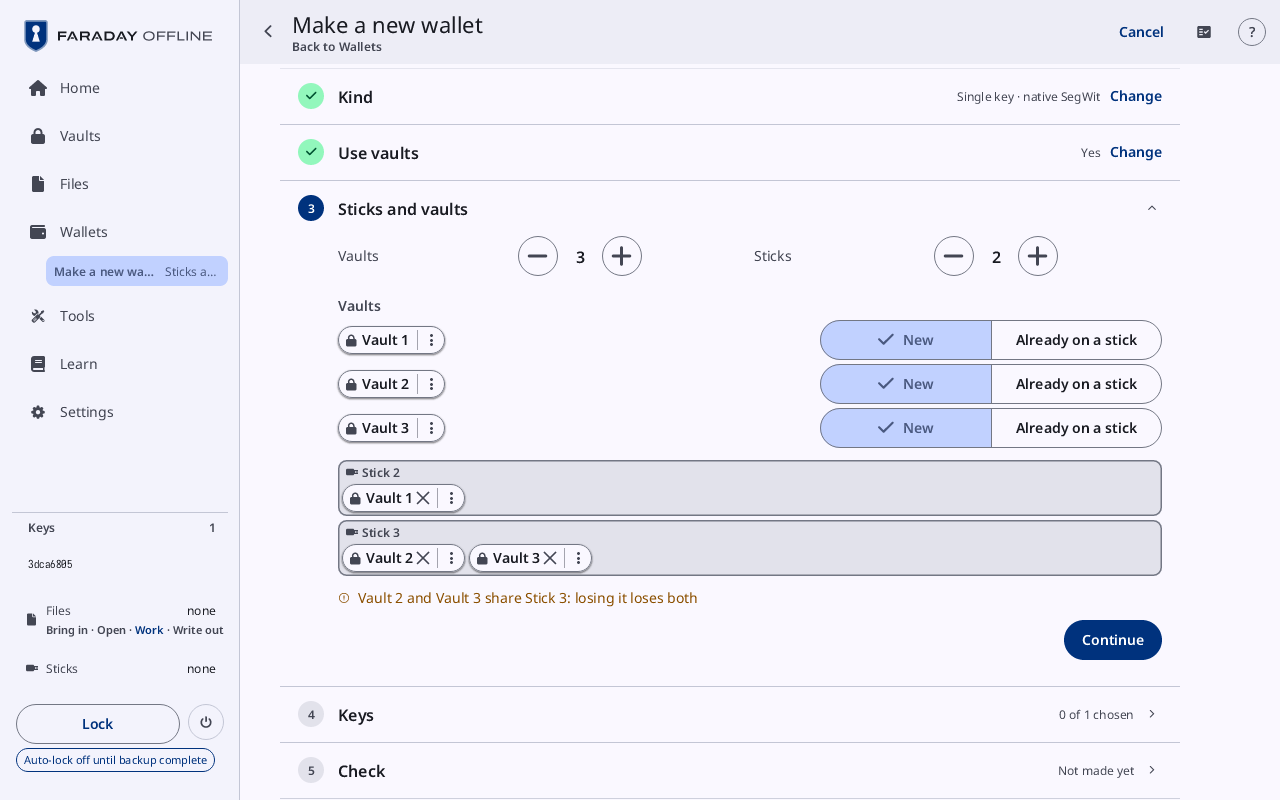
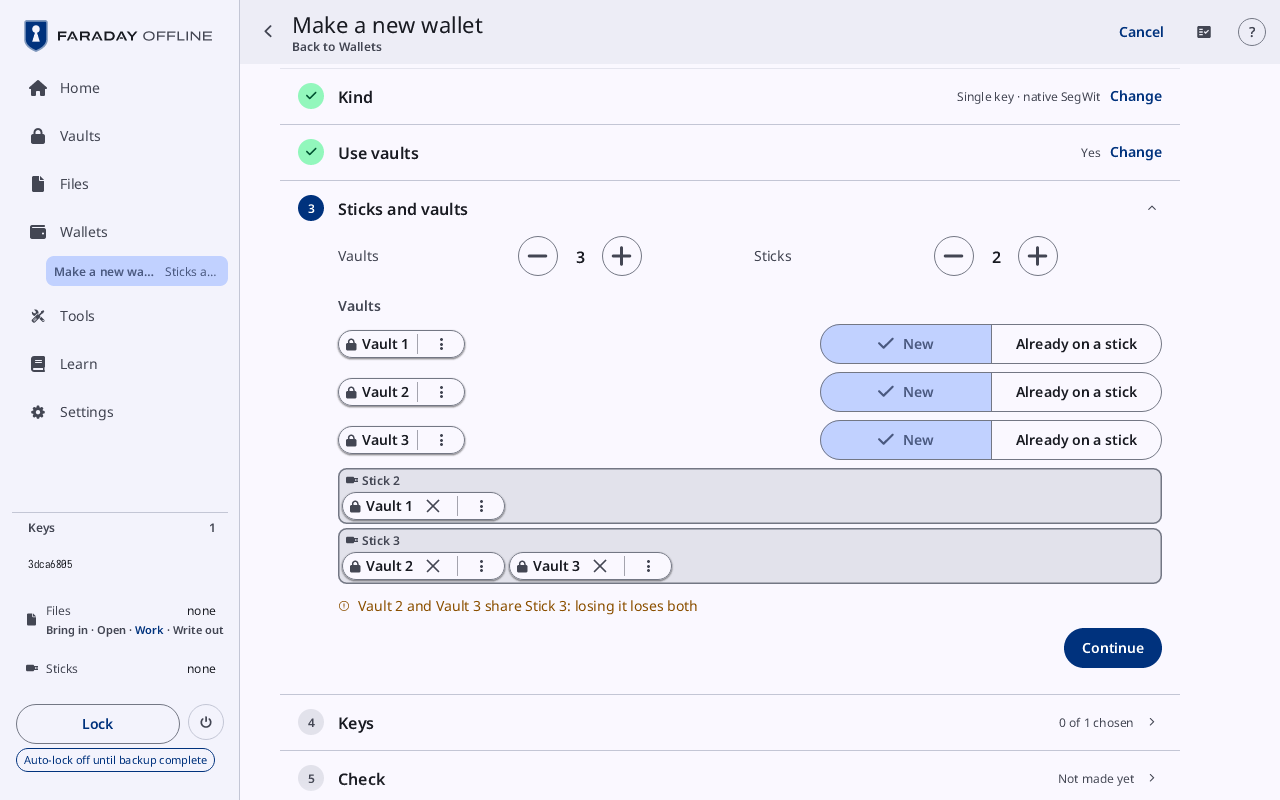
A vault chip's menu and its × take a 48 dp press, and the Sticks and vaults card's rows are a press target tall: the vault's head band on the backup board is 48 dp, with its ⋮ and × each 48 dp wide, and the card's chips and New / Already on a stick buttons each have a 48 dp line. The board's under-f
Material: Icon buttons (48 dp touch target around a 24 dp icon), Segmented buttons (40 dp drawn, 48 dp target)
Impact-skip: speed.late-flow-timed: press targets only, nothing worked out while drawing
Reviewed: crypto.costs-said
Reviewed: keys.secret-files
Reviewed: keys.child-vault-only
Reviewed: structure.areas-private
Reviewed: strings.plain
Reviewed: design.left-out
Reviewed: guide.pictures
Reviewed: repo.tests-user-facing
Reviewed: tree.image-metadata
Reviewed: crypto.at-source
Reviewed: crypto.kept-values

diff --git a/faraday/faraday-core/src/board/screen.rs b/faraday/faraday-core/src/board/screen.rs
@@ -159,14 +159,32 @@ fn marks_w(cv: &ChipView) -> f32 {
         + usize::from(cv.link)
         + usize::from(cv.warn)
         + usize::from(cv.off && matches!(cv.chip, Chip::Placed(..)) && !cv.fixed);
-    n as f32 * one + if cv.menu { menu_w() } else { 0.0 }
+    let off = cv.off && matches!(cv.chip, Chip::Placed(..)) && !cv.fixed;
+    n as f32 * one + if off { off_extra(t) } else { 0.0 } + if cv.menu { menu_w(t) } else { 0.0 }
+}
+
+/// The side in dp of a chip's ⋮ and × parts: a vault's are a press
+/// target of [`tokens::TOUCH`] square, as Material's icon buttons are
+/// (the icon keeps its size); any other chip's are the mark and its
+/// padding.
+fn side(t: Thing) -> f32 {
+    if matches!(t, Thing::Vault(_)) {
+        tokens::TOUCH
+    } else {
+        tokens::BOARD_MARK + 2.0 * tokens::BOARD_PAD
+    }
+}
+
+/// What a chip's × part takes beyond a mark and its small gap.
+fn off_extra(t: Thing) -> f32 {
+    side(t) - (tokens::BOARD_MARK + 2.0 * tokens::BOARD_PAD)
 }
 
 /// The width of a chip's ⋮ part at its right end, from its rule: the ⋮
 /// and its padding, a press target as the × is (`docs/BACKUP-FLOW.md`
 /// §17.20 item 1).
-fn menu_w() -> f32 {
-    tokens::BOARD_MARK + 2.0 * tokens::BOARD_PAD
+fn menu_w(t: Thing) -> f32 {
+    side(t)
 }
 
 /// A chip's ⋮ part at (x, y), `h` tall (`docs/BACKUP-FLOW.md` §17.20):
@@ -185,7 +203,7 @@ fn dots(
     color: crate::ui::Paint,
     hits: bool,
 ) {
-    let mw = menu_w();
+    let mw = menu_w(c.thing());
     let a = Action::Board(BoardPress::Menu(c));
     if hits {
         ui.tip_plain((x, y, mw, h), a, EN.tip_more);
@@ -418,9 +436,15 @@ fn chip(ui: &mut Ui, fr: &mut Frame, cv: &ChipView, x: f32, y: f32, fit: Fit, hi
     let cx = x + tokens::BOARD_PAD + if g.is_some() { step } else { 0.0 };
     // The marks at the right, from the edge in: the ⋮ after its rule, ×,
     // warning, link, lock; each mark's right edge.
-    let mw = if cv.menu { menu_w() } else { 0.0 };
+    let mw = if cv.menu { menu_w(t) } else { 0.0 };
     let off = cv.off && !cv.fixed && matches!(cv.chip, Chip::Placed(..));
     let mut right = x + w - mw - tokens::BOARD_PAD;
+    // A vault's × is a press target of its own side, its mark centred.
+    let ex = if off { off_extra(t) } else { 0.0 };
+    let off_r = right - ex / 2.0;
+    if off {
+        right -= step + ex;
+    }
     let mut at = |on: bool| {
         let mark_r = right;
         if on {
@@ -428,7 +452,7 @@ fn chip(ui: &mut Ui, fr: &mut Frame, cv: &ChipView, x: f32, y: f32, fit: Fit, hi
         }
         mark_r
     };
-    let (off_r, warn_r, link_r, seal_r) = (at(off), at(cv.warn), at(cv.link), at(sealed(cv)));
+    let (warn_r, link_r, seal_r) = (at(cv.warn), at(cv.link), at(sealed(cv)));
     let role = if mono(t) { fit.role.mono() } else { fit.role };
     // A fingerprint is never cut; anything else is fitted.
     let name = if mono(t) {
@@ -486,7 +510,7 @@ fn chip(ui: &mut Ui, fr: &mut Frame, cv: &ChipView, x: f32, y: f32, fit: Fit, hi
     }
     if off {
         if hits && let Chip::Placed(z, t) = cv.chip {
-            let side = tokens::BOARD_MARK + 2.0 * tokens::BOARD_PAD;
+            let side = side(t);
             let off = Action::Board(BoardPress::Off(z, t));
             ui.press_box(x + w - mw - side, y, side, line_h, off);
             ui.tip_plain((x + w - mw - side, y, side, line_h), off, EN.tip_remove);
@@ -1146,9 +1170,13 @@ fn vault_head(
     let action = Action::Board(BoardPress::Chip(vc.chip));
     let held = fr.held == Some(vc.chip);
     band(ui, x, y, w, hh, Role::Primary.paint());
-    let mw = if vc.menu { menu_w() } else { 0.0 };
+    let mw = if vc.menu {
+        menu_w(vc.chip.thing())
+    } else {
+        0.0
+    };
     let off_w = if vc.off && matches!(vc.chip, Chip::Placed(..)) {
-        mark + 2.0 * pad
+        side(vc.chip.thing())
     } else {
         0.0
     };
@@ -1181,11 +1209,12 @@ fn vault_head(
         ui.tip_plain((x + w - mw - off_w, y, off_w, hh), off, EN.tip_remove);
         cross(
             ui,
-            right - mark / 2.0,
+            x + w - mw - off_w / 2.0,
             y + hh / 2.0,
             Role::OnPrimary.paint(),
         );
-        right -= mark + tokens::BOARD_CHIP_GAP;
+        // The name may run over the × part's empty side.
+        right = x + w - mw - (off_w + mark) / 2.0 - tokens::GAP_SMALL;
     }
     if vc.warn {
         mark_tip(ui, vc.chip, MarkTip::Warning, (right, y, hh));

diff --git a/faraday/faraday-core/src/backup_flow/layout_screen.rs b/faraday/faraday-core/src/backup_flow/layout_screen.rs
@@ -162,14 +162,16 @@ fn vault_list(
             (cv, cw + tokens::GAP + seg_w <= w)
         })
         .collect();
+    // A line of a row is a press target tall: the chip's, and the
+    // segmented buttons' (40 dp drawn, Material's 48 dp target).
     let row_h = |beside: bool| {
         if beside {
-            SEGMENTED_H.max(tokens::BOARD_CHIP)
+            tokens::TOUCH
         } else {
-            tokens::BOARD_CHIP + tokens::GAP_SMALL + SEGMENTED_H
+            2.0 * tokens::TOUCH
         }
     };
-    let list_h: f32 = rows.iter().map(|r| row_h(r.1) + tokens::GAP_SMALL).sum();
+    let list_h: f32 = rows.iter().map(|r| row_h(r.1)).sum();
     if !locked {
         ui.press_box(
             x,
@@ -179,14 +181,15 @@ fn vault_list(
             Action::Board(BoardPress::Zone(Zone::List)),
         );
     }
-    let off = (SEGMENTED_H - tokens::BOARD_CHIP).max(0.0) / 2.0;
+    let off = (tokens::TOUCH - tokens::BOARD_CHIP) / 2.0;
+    let seg_off = (tokens::TOUCH - SEGMENTED_H) / 2.0;
     let top = cy;
     for (v, (cv, beside)) in rows.iter().enumerate() {
         board_screen::card_chips(ui, fr, std::slice::from_ref(cv), (x, cy + off, w));
         let (sx, sy) = if *beside {
-            (x + w - seg_w, cy)
+            (x + w - seg_w, cy + seg_off)
         } else {
-            (x, cy + tokens::BOARD_CHIP + tokens::GAP_SMALL)
+            (x, cy + tokens::TOUCH + seg_off)
         };
         let form = |k: u8| Action::Board(BoardPress::Form(Zone::List, Thing::Vault(v), k));
         let options = [(labels[0], form(0)), (labels[1], form(1))];
@@ -198,9 +201,9 @@ fn vault_list(
             Some(chosen),
             None,
         );
-        cy += row_h(*beside) + tokens::GAP_SMALL;
+        cy += row_h(*beside);
     }
-    top + list_h + tokens::GAP - y
+    top + list_h + tokens::GAP_SMALL - y
 }
 
 /// The sticks, each a box with the vaults on it. Returns their height.

diff --git a/faraday/faraday-core/tests/all/common.rs b/faraday/faraday-core/tests/all/common.rs
@@ -1164,6 +1164,14 @@ pub fn no_paper_passphrases(app: &mut Faraday) {
     }
 }
 
+/// Where a finger drops onto `to`: the middle of its box, or for a
+/// vault's box, whose head band is over its top, its lower part.
+pub fn drop_point(app: &Faraday, to: BoardPress) -> Option<(u16, u16)> {
+    let (x, y, w, h) = app.hit_box(Action::Board(to))?;
+    let low = matches!(to, BoardPress::Zone(Zone::Vault(..)));
+    Some((x + w / 2, if low { y + h - 3 } else { y + h / 2 }))
+}
+
 /// `t` dropped into vault `v` at the first place that keeps its stick.
 pub fn into_vault(app: &mut Faraday, v: usize, t: Thing) {
     let places = board_places(app);

diff --git a/core/faraday-draw/src/tokens.rs b/core/faraday-draw/src/tokens.rs
@@ -586,8 +586,9 @@ pub const BOARD_STICK_PAD: f32 = GAP_SMALL;
 /// stick reads as a box of its own inside the place card.
 pub const BOARD_STICK_EDGE: f32 = 1.5;
 /// Height in dp of a vault box's head ("Vault 1", its marks and ×): a
-/// chip's height, the head being the vault's chip.
-pub const BOARD_VAULT_HEAD: f32 = BOARD_CHIP;
+/// press target tall, the head being the vault's chip and its ⋮ and ×
+/// icon buttons.
+pub const BOARD_VAULT_HEAD: f32 = TOUCH;
 /// Padding in dp inside a vault box, round the records it holds.
 pub const BOARD_VAULT_PAD: f32 = GAP_SMALL;
 /// Stroke in dp of a vault box's edge.

diff --git a/faraday/faraday-core/tests/all/backup_board.rs b/faraday/faraday-core/tests/all/backup_board.rs
@@ -927,9 +927,8 @@ fn tap(app: &mut Faraday, p: BP) {
 /// the slop, moved over `to`, lifted there. Both are on screen at once.
 fn drag(app: &mut Faraday, from: BP, to: BP) {
     let start = on_board(app, from);
-    let end = app
-        .where_offered(Action::Board(to))
-        .unwrap_or_else(|| panic!("{to:?} is not on screen with {from:?}"));
+    let end =
+        drop_point(app, to).unwrap_or_else(|| panic!("{to:?} is not on screen with {from:?}"));
     touch(app, start, TouchPhase::Down);
     touch(app, (start.0 + 12, start.1 + 4), TouchPhase::Move);
     let _ = app.frame();

diff --git a/docs/decisions/F152.md b/docs/decisions/F152.md
@@ -43,6 +43,13 @@ held them.
   watcher reads nothing of what is typed from a highlight: Faraday's
   difference from Material's pressed state.
 
+**Counts raised** (owner, 2026-11-02). The backup board's count on the
+240 × 320, 480 × 640 and 1024 × 600 layouts is held at 34, 31 and 66
+(up 3, 5 and 2): a stick holding two vaults shows its item chips' ⋮ and
+× inside the second vault box, the board's stacked 28 dp chips, which
+cannot reach 48 dp without overlapping. They stay until the board's
+item chips are drawn as 48 dp rows.
+
 **Amends** F108: a split target under the floor is a defect, the
 exceptions are listed, the states are drawn by construction, and the
 keyboard's keys show no pressed state.
